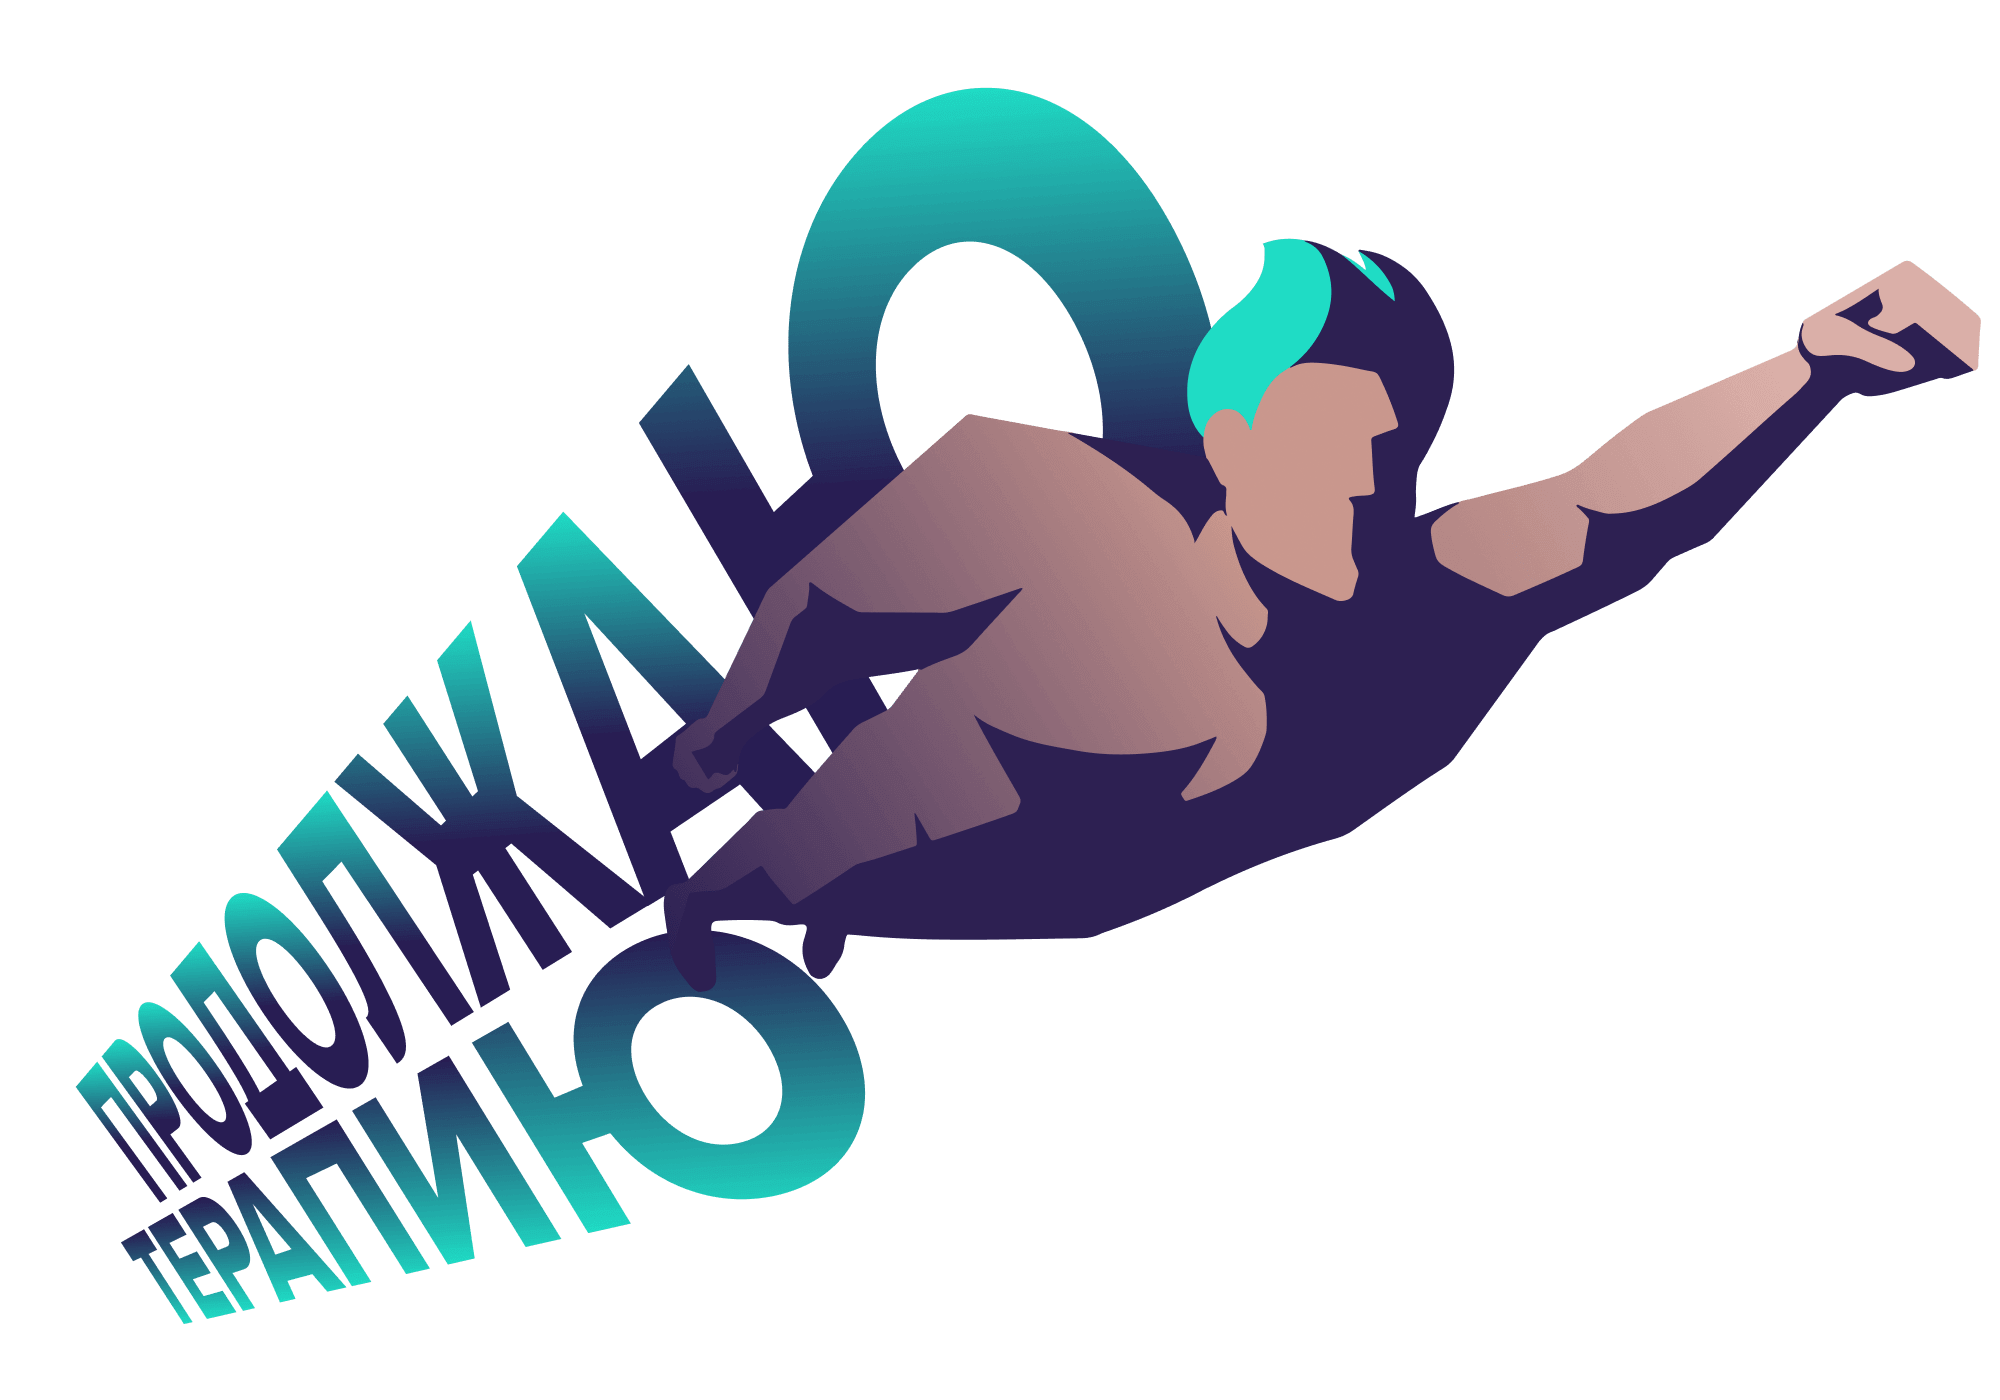
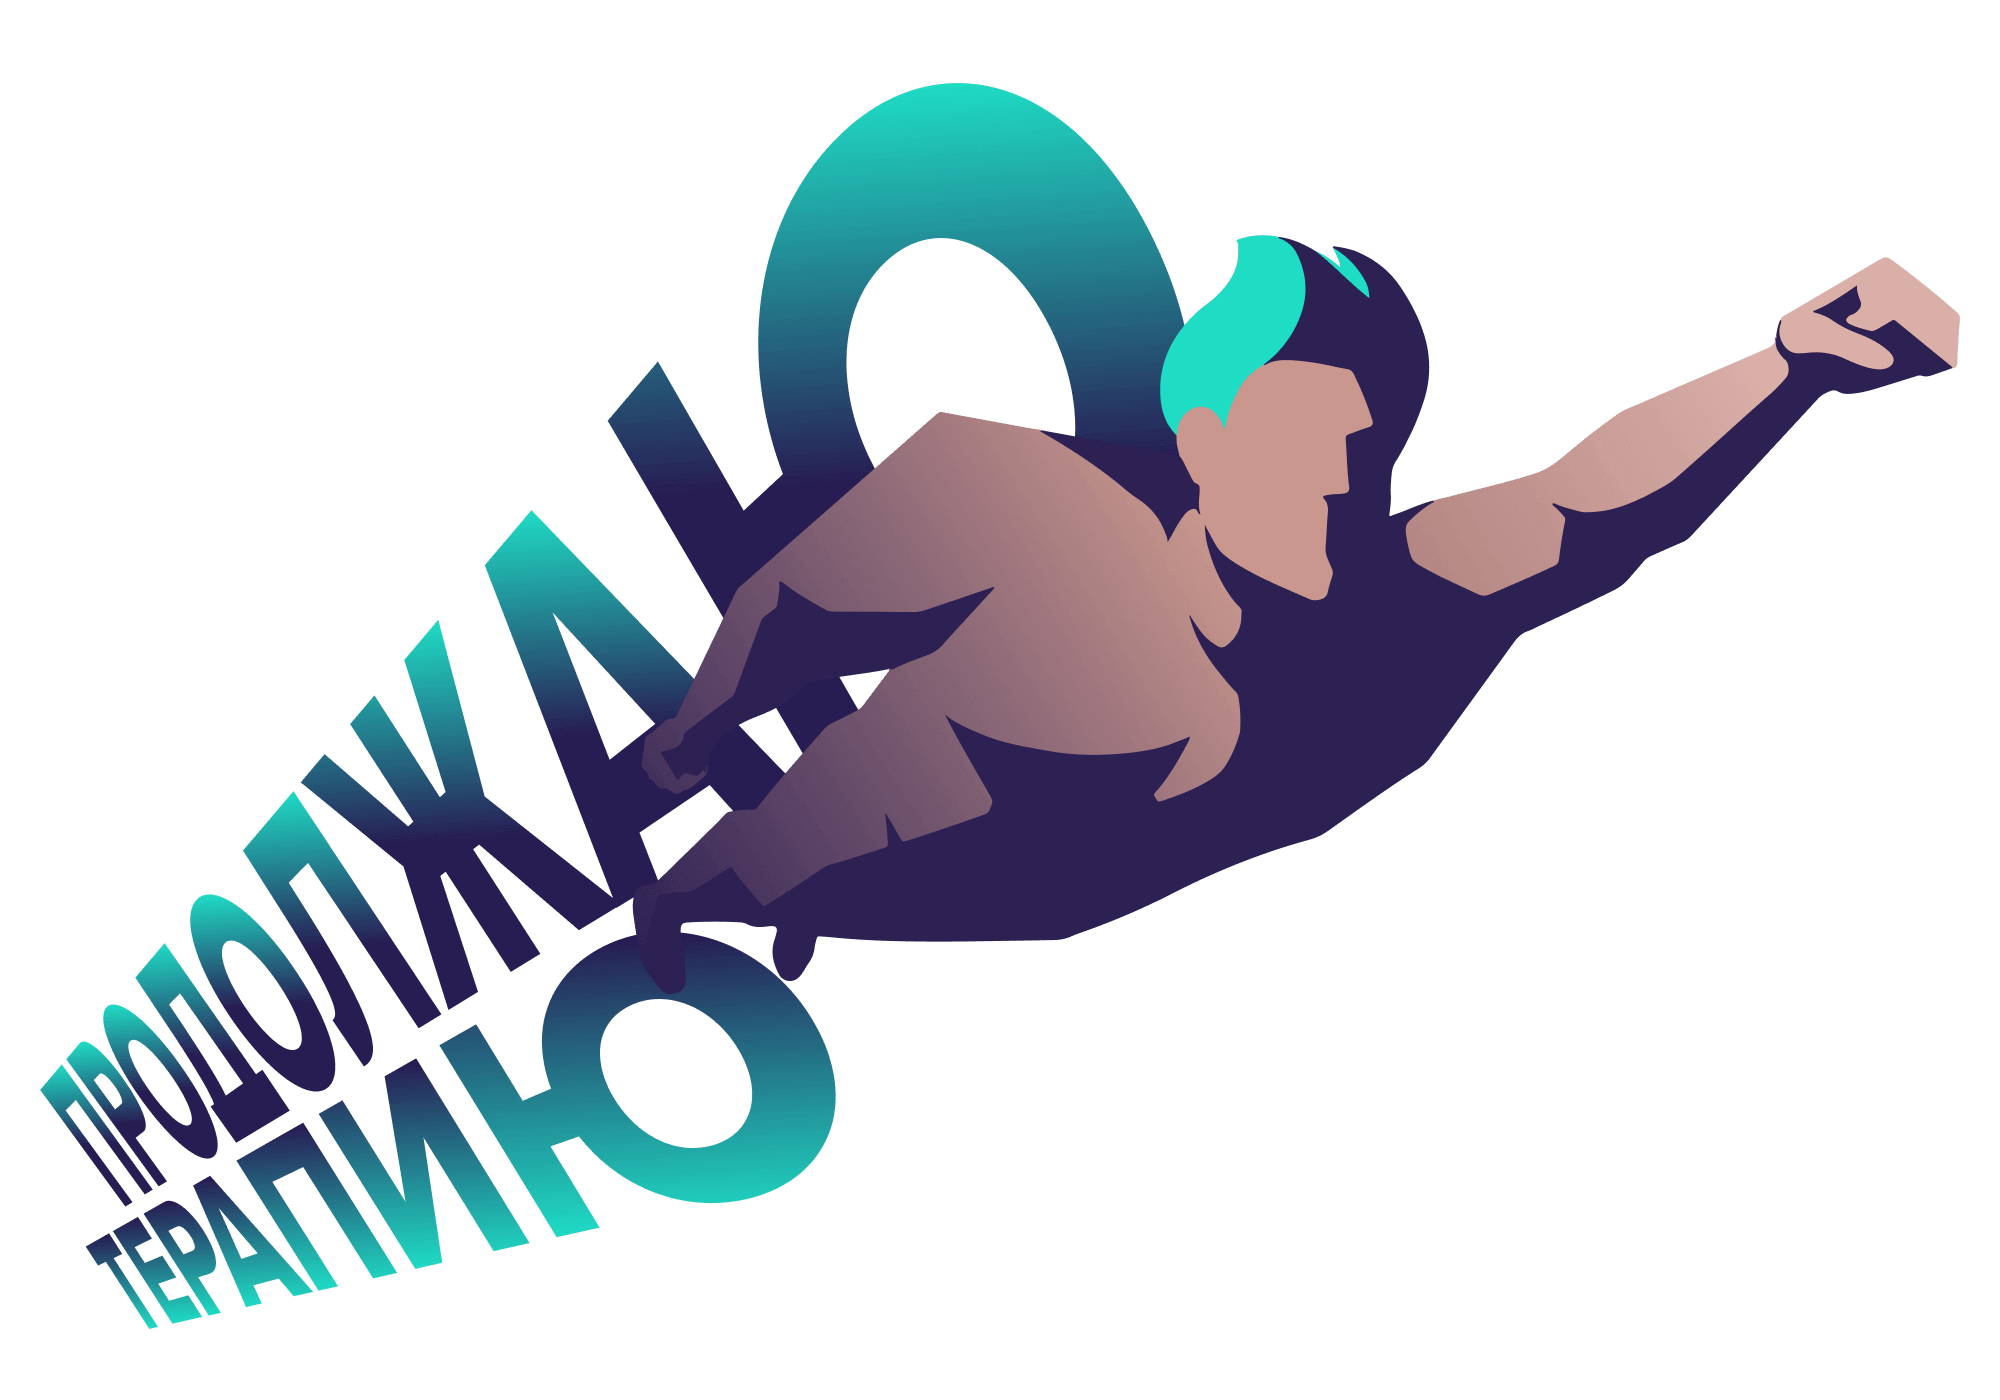
Отступы, иллюстрации

diff --git a/static/css/style.css b/static/css/style.css
@@ -186,13 +186,16 @@ a {
     content: '';
     position: absolute;
     top: 10px;
-    left: calc(63% - 634px);
+    left: 50%;
     width: 1000px;
     min-height: 700px;
     background-image: url(../images/header_illustration.png);
     background-repeat: no-repeat;
     background-size: contain;
     z-index: 10;
+    -webkit-transform: translateX(-50%);
+    -ms-transform: translateX(-50%);
+    transform: translateX(-50%);
 }
 
 .header__wrapper {
@@ -241,6 +244,9 @@ a {
     justify-content: center;
     margin: 0;
     padding: 17px 18px 14px 20px;
+}
+.bot-btn--top {
+  margin-top: 7px;
 }
 
 .bot-btn:before {
@@ -839,16 +845,12 @@ a {
         content: '';
         position: absolute;
         top: 5px;
-        left: 50%;
         width: 375px;
-        min-height: 660px;
+        min-height: 648px;
         background-image: url(../images/header_illustration-mob.png);
         background-repeat: no-repeat;
         background-size: contain;
         z-index: 10;
-        -webkit-transform: translateX(-50%);
-        -ms-transform: translateX(-50%);
-        transform: translateX(-50%);
     }
 
     .header__text b {
@@ -862,8 +864,9 @@ a {
     }
 
     .bot-btn--top {
-      left: 4px;
+      left: 10px;
       bottom: 2px;
+      margin: 0;
     }
 
     .bot-btn span {
@@ -945,7 +948,7 @@ a {
 
     .actions--main {
         margin-top: 0;
-        padding: 45px 0 0;
+        padding: 55px 0 0;
     }
 
     .actions__title {
@@ -968,6 +971,7 @@ a {
 
     .actions__col--text {
         max-width: 100%;
+        padding: 0 0 20px 0;
     }
 
     .actions--extra .actions__pic {
@@ -1136,7 +1140,7 @@ a {
         width: 18px;
         height: 18px;
         background-size: cover;
-        top: 27px;
+        top: 23px;
     }
 
 

diff --git a/index.html b/index.html
@@ -71,7 +71,7 @@
 	</div>
 	<figure class="description__pic">
 		<img src="static/images/pic-description.png" alt="" class="desktop">
-		<img src="static/images/pic-chart.svg" alt="" class="mobile">
+		<img src="static/images/pic-chart.png" alt="" class="mobile">
 	</figure>
 </section>
 <section class="actions actions--extra">
@@ -114,8 +114,7 @@
 				принимать лекарства по&nbsp;схеме, назначенной врачом.</p>
 			<div class="quotes__author">
 				<b class="quotes__author-name">Юрик Шахвердян</b>
-				<p class="quotes__author-status">Врач-инфекционист Краснодарского центра&nbsp;СПИД, автор проекта
-					«Продолжаю»</p>
+				<p class="quotes__author-status">Врач-инфекционист Краснодарского центра&nbsp;СПИД, автор&nbsp;проекта «Продолжаю»</p>
 			</div>
 		</div>
 	</div>
